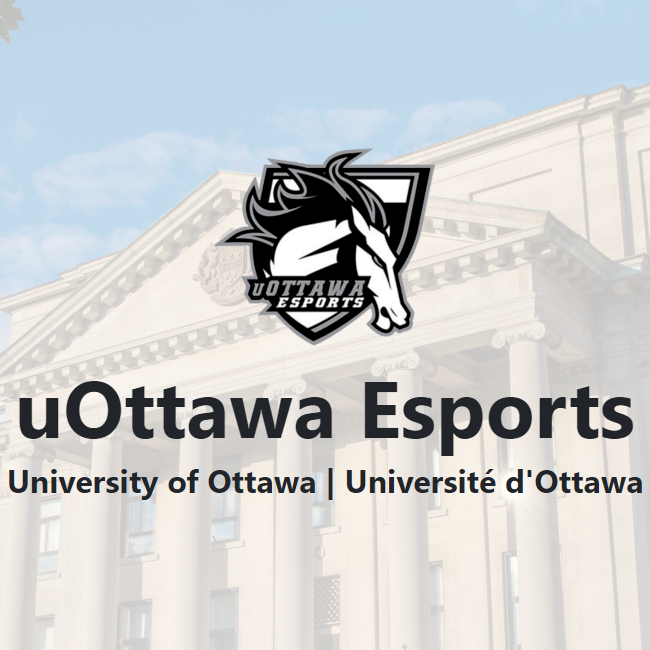
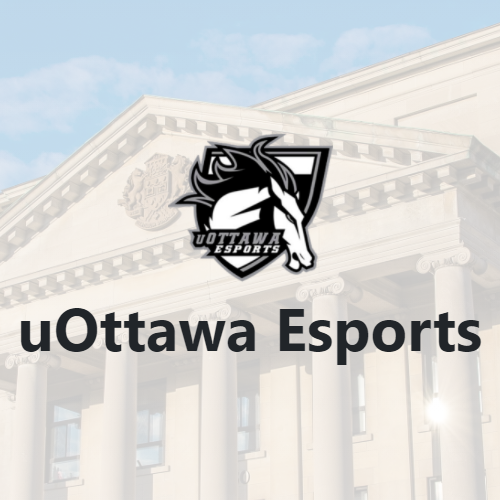
Meta tag image test

diff --git a/en/index.html b/en/index.html
@@ -12,9 +12,7 @@
   <meta property="og:type" content="website">
   <meta property="og:title" content="Home | uOttawa Esports">
   <meta property="og:description" content="The official website of uOttawa Esports.">
-  <meta property="og:image" content="https://raw.githubusercontent.com/uOttawaEsports/uottawaesports.ca/main/images/landing-page.png">
-  <meta property="og:image:height" content="650">
-  <meta property="og:image:width" content="650">
+  <meta property="og:image" content="https://metatags.io/assets/meta-tags-16a33a6a8531e519cc0936fbba0ad904e52d35f34a46c97a2c9f6f7dd7d336f2.png">
   <meta property="og:url" content="https://www.uottawaesports.ca/">
   <meta property="og:site_name" content="uOttawa Esports">
   <meta name="twitter:title" content="uOttawa Esports">

diff --git a/index.html b/index.html
@@ -22,17 +22,9 @@
         </div>
         <div class="row">
             <h1 class="col-12 display-1 fw-bold text-center">uOttawa Esports</h1>
-            <h2 class="col-12 display-7 fw-bold text-center">University&nbsp;of&nbsp;Ottawa | Université&nbsp;d'Ottawa
-            </h2>
+
         </div>
-        <div class="row mt-5">
-            <div class="col-6 text-end">
-                <a role="button" href="/en/" class="btn btn-dark btn-lg" rel="alternate" hreflang="en">English</a>
-            </div>
-            <div class="col-6 text-start">
-                <a role="button" href="#" class="btn btn-dark btn-lg" rel="alternate" hreflang="fr">Français</a>
-            </div>
-        </div>
+       
     </div>
 
     <!-- Bootstrap JS Bundle with Popper-->
